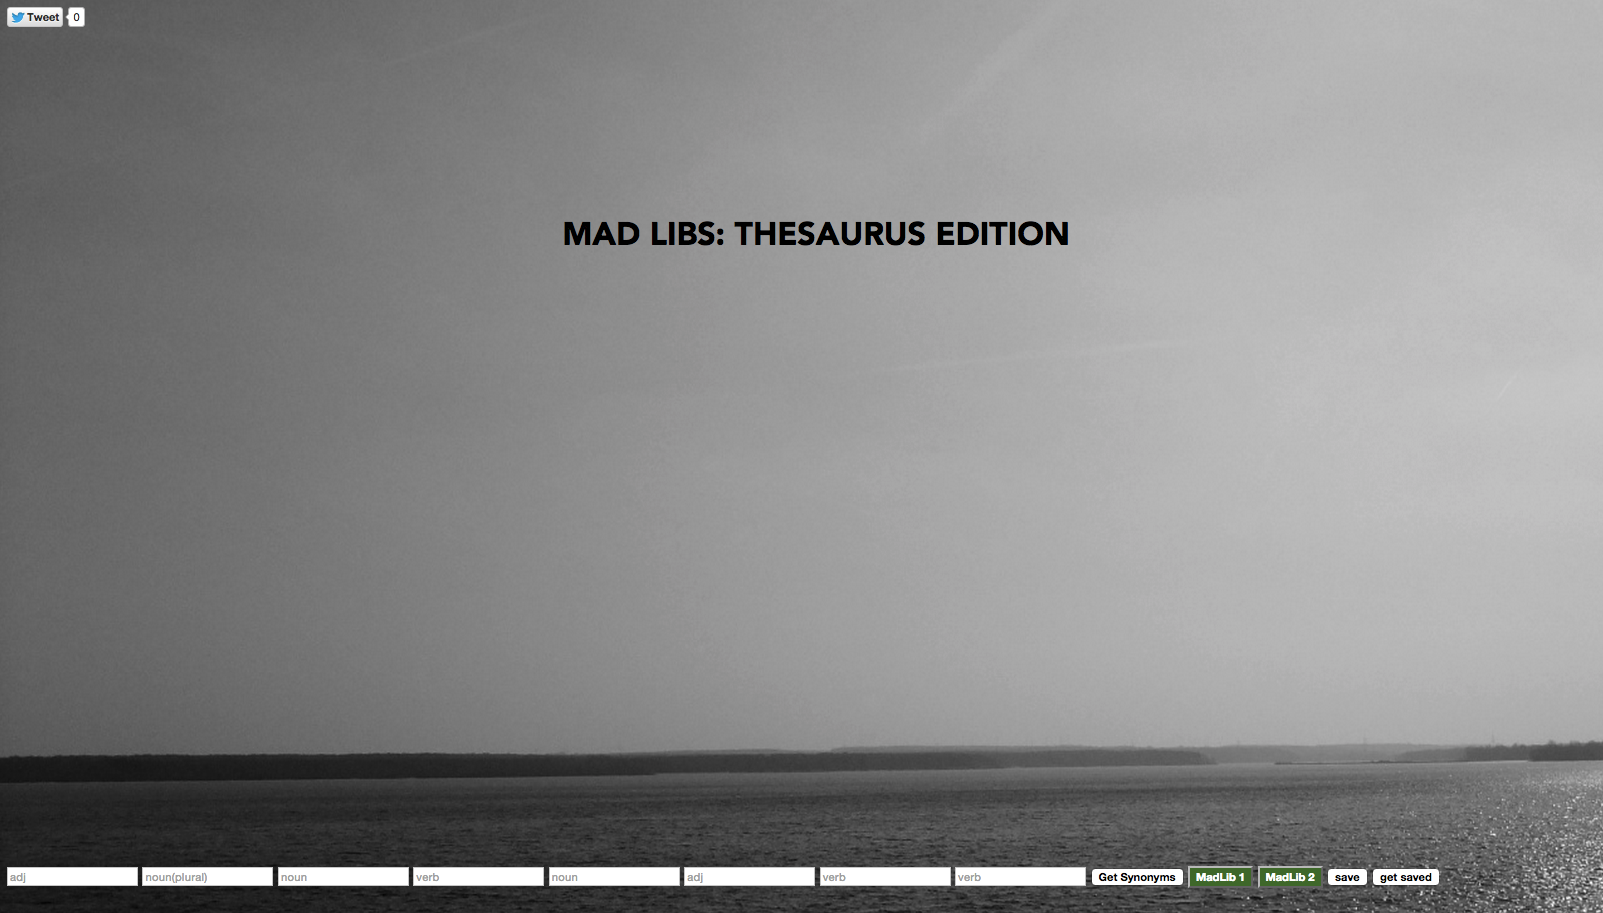
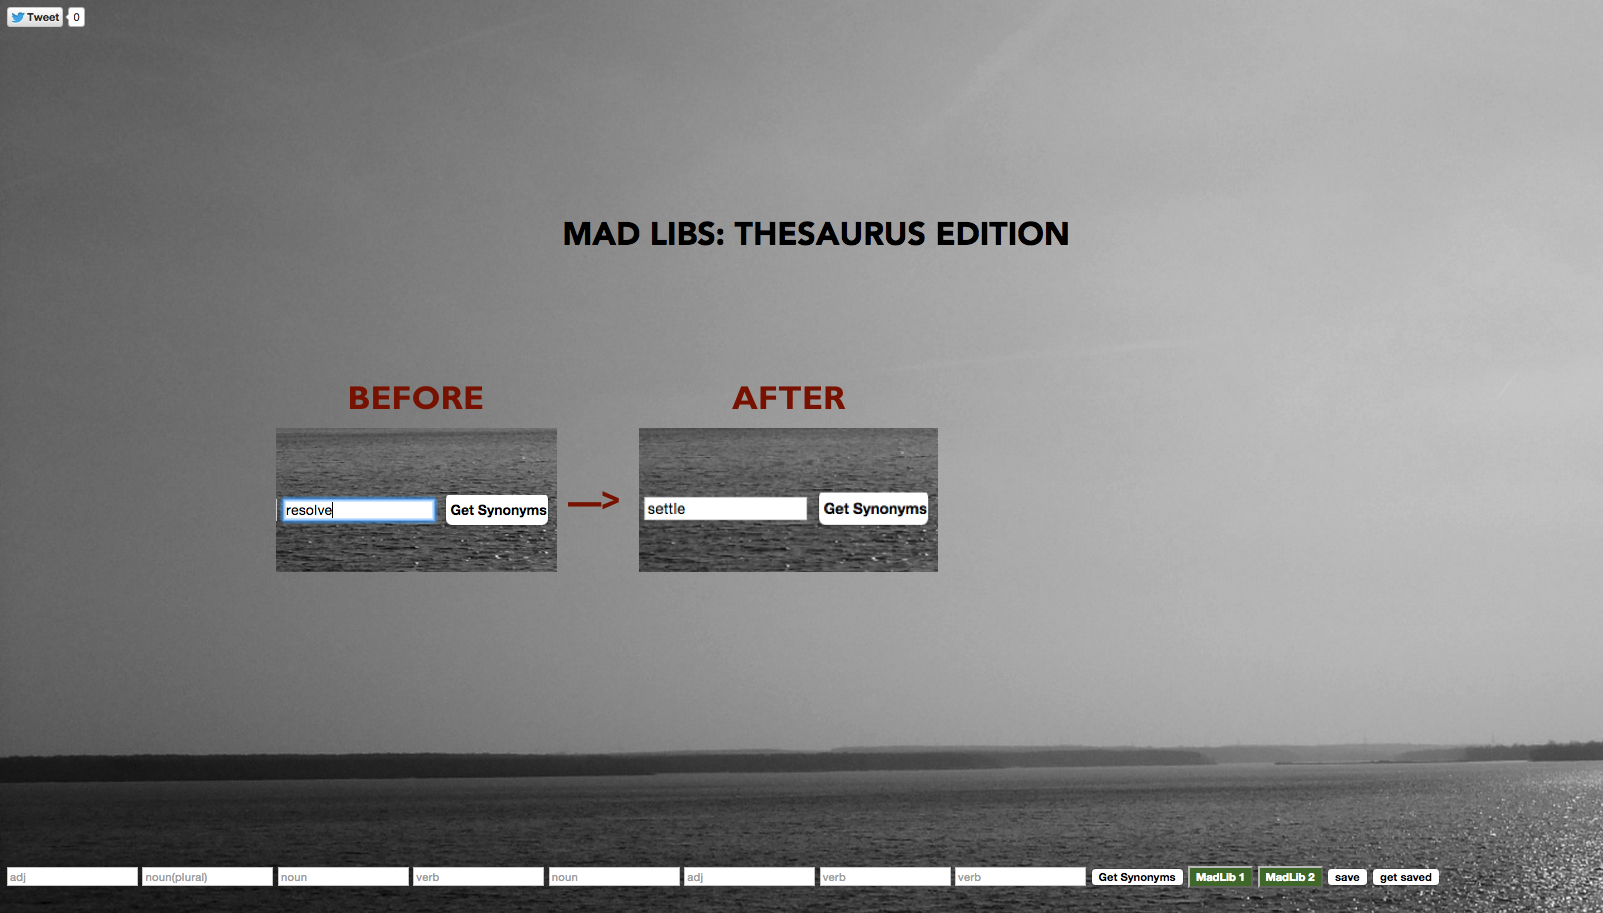
update for the mad libs teaser popup

Changed region(s): [[0.156, 0.3987, 0.5926, 0.644]]

diff --git a/index.html b/index.html
@@ -67,13 +67,19 @@
         <br clear="all">
         <article id="popupAbout" class="popupAbout">
            <div class="customScrollBox">
-             <div class="container">
                <div class="content"> <a id="popupAboutClose"><img src="images/cross.png" width="20" alt="" /></a>
-                 <h1 class='commandments'>Hello Test</h1>
-                   <div class='commandments'>
-                   <p>1. What's up Dave. Nothing much.</p>
+                 <h2 class='title popupContent'>Mad Libs: Thesaurus Edition</h2>
+                     <h3 class='subtitle popupContent'>Re-imaginging the classic word game, Mad Libs--with a twist</h3>
+                   <div class='description popupContent'>
+                     <h5>Mad Libs: Thesaurus Edition is a fun, educational game that lets users create a Mad Libs based on two different story templates. In this game, the app will prompt the users for a list of lexical items to substitute for blanks in a story, before reading the comical and nonsensical story aloud.</h5>
+                     <img class='popupImages' src="/images/madLibs/smallHome.png">
+                     <h5>This web app aims to augment the hilarity and the educational value of the original Mad Libs by returning synonyms of the lexical items inputted by the user. The younger users will be able to learn different synonyms for their word inputs. With this app, you never know what story you're going to end up with!</h5>
+                     <img class='popupImages' src="/images/madLibs/beforeAfter.png">
+                     <h5>talk about the saving functionality, short term</h5>
+                     <h5>talk about the user experience with the </h5>
+                     <h5>Mad Libs: Thesaurus Edition is simply built with Angular.js, Node.js, Express.js. The Node Cache module simplified the NodeJS internal caching. The Google Speech Synthesis API was instrumental in recreating the multi-person aspect of the original game. We used the Big Huge Thesaurus API for the synonym look ups.</h5>
+                     // <img tech stack photo>
                    </div>
-               </div>
              </div>
          <div class="dragger_container">
            <div class="dragger"></div>

diff --git a/css/popup.css b/css/popup.css
@@ -25,14 +25,6 @@
   font-size: 16px;
   line-height: 24px;
 }
-#popupAbout h1, #popupProjects h1, #popupContact h1, #popupBlog h1 {
-  text-align: left;
-  font-size: 30px;
-  letter-spacing: 1px;
-  border-bottom: 1px dotted #D3D3D3;
-  padding-bottom: 2px;
-  margin: 0;
-}
 #popupAboutClose, #popupProjectsClose, #popupContactClose, #popupBlogClose {
   right: 0;
   top: 15px;

diff --git a/css/styles.css b/css/styles.css
@@ -594,3 +594,24 @@ header ul li a:hover {
 .bold{
 	font-weight: bold;
 }
+.title{
+	text-align:center;
+	font-size:40px;
+	color:#fff;
+	margin-top: 2%;
+}
+.subtitle{
+	font-size:35px;
+	color:#fff;
+	margin-top:8%;
+	text-align: center;
+}
+.description{
+	width:80%;
+	margin: 0 auto;
+	font-size: 27px;
+}
+.popupImages{
+	width: 80%;
+	max-height: 350px;
+}
